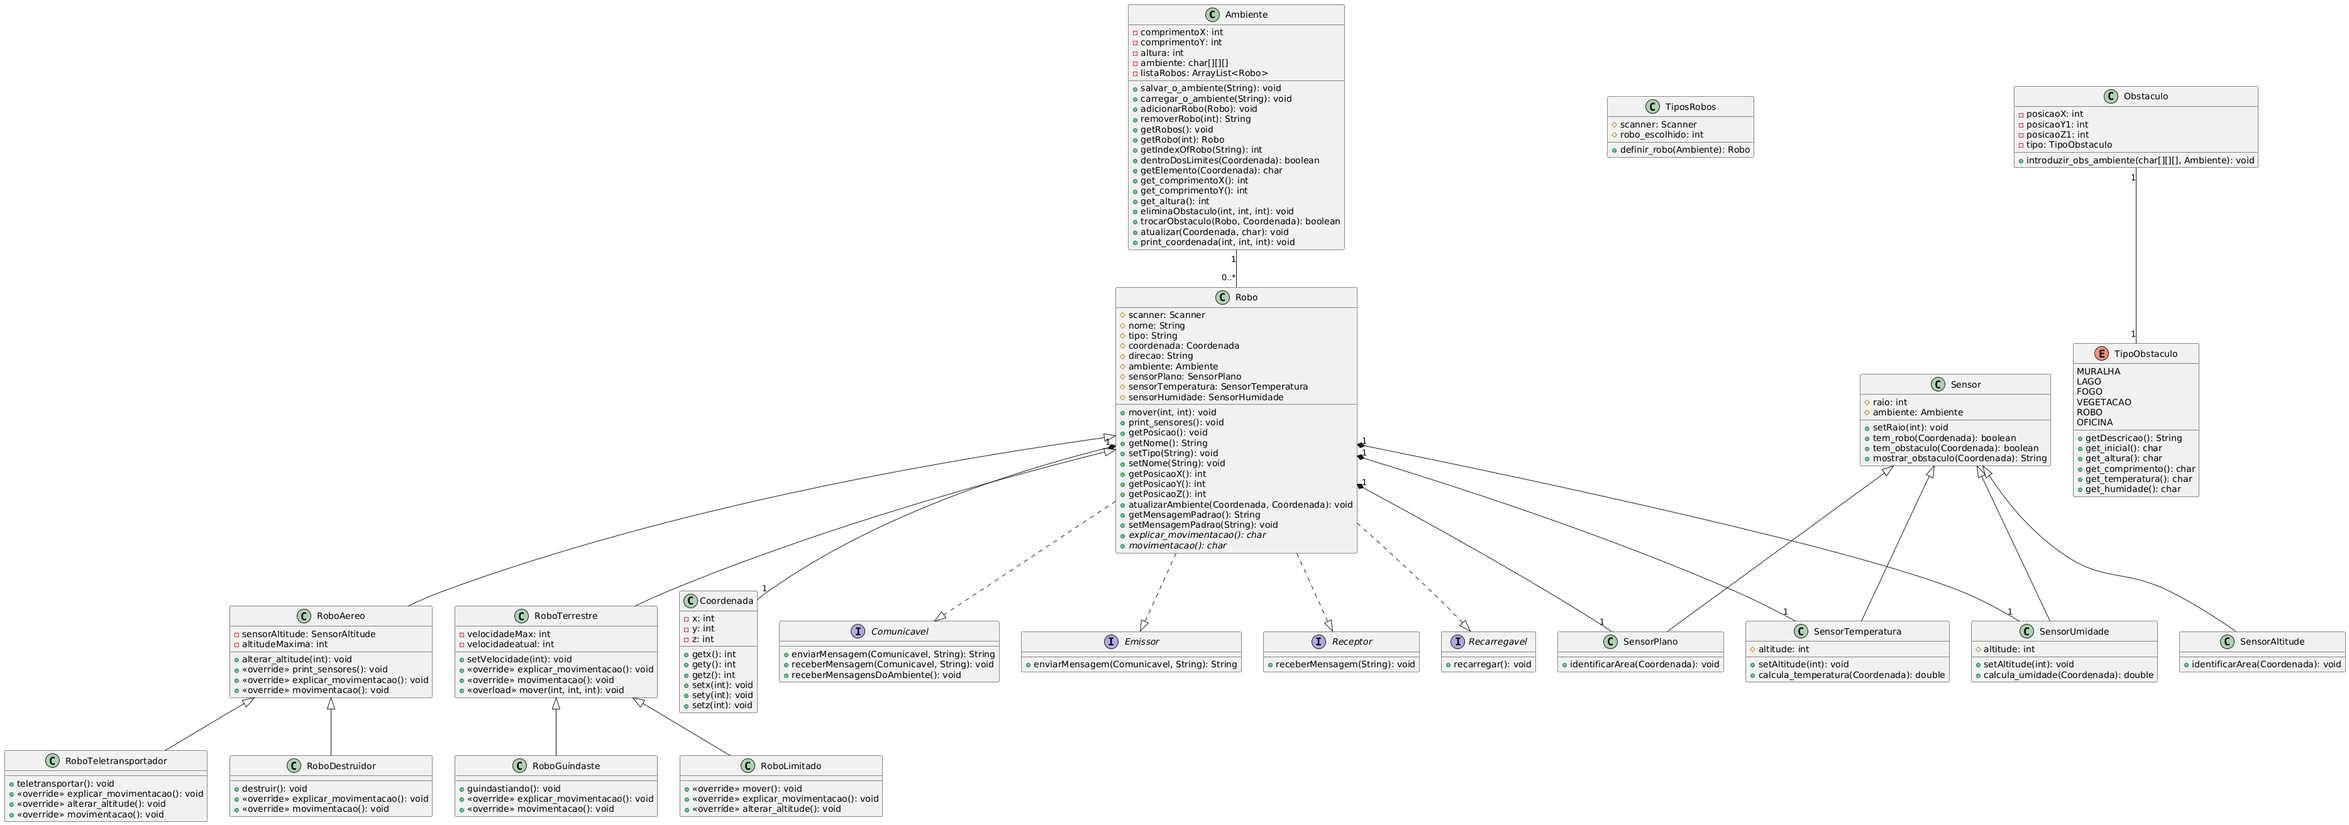
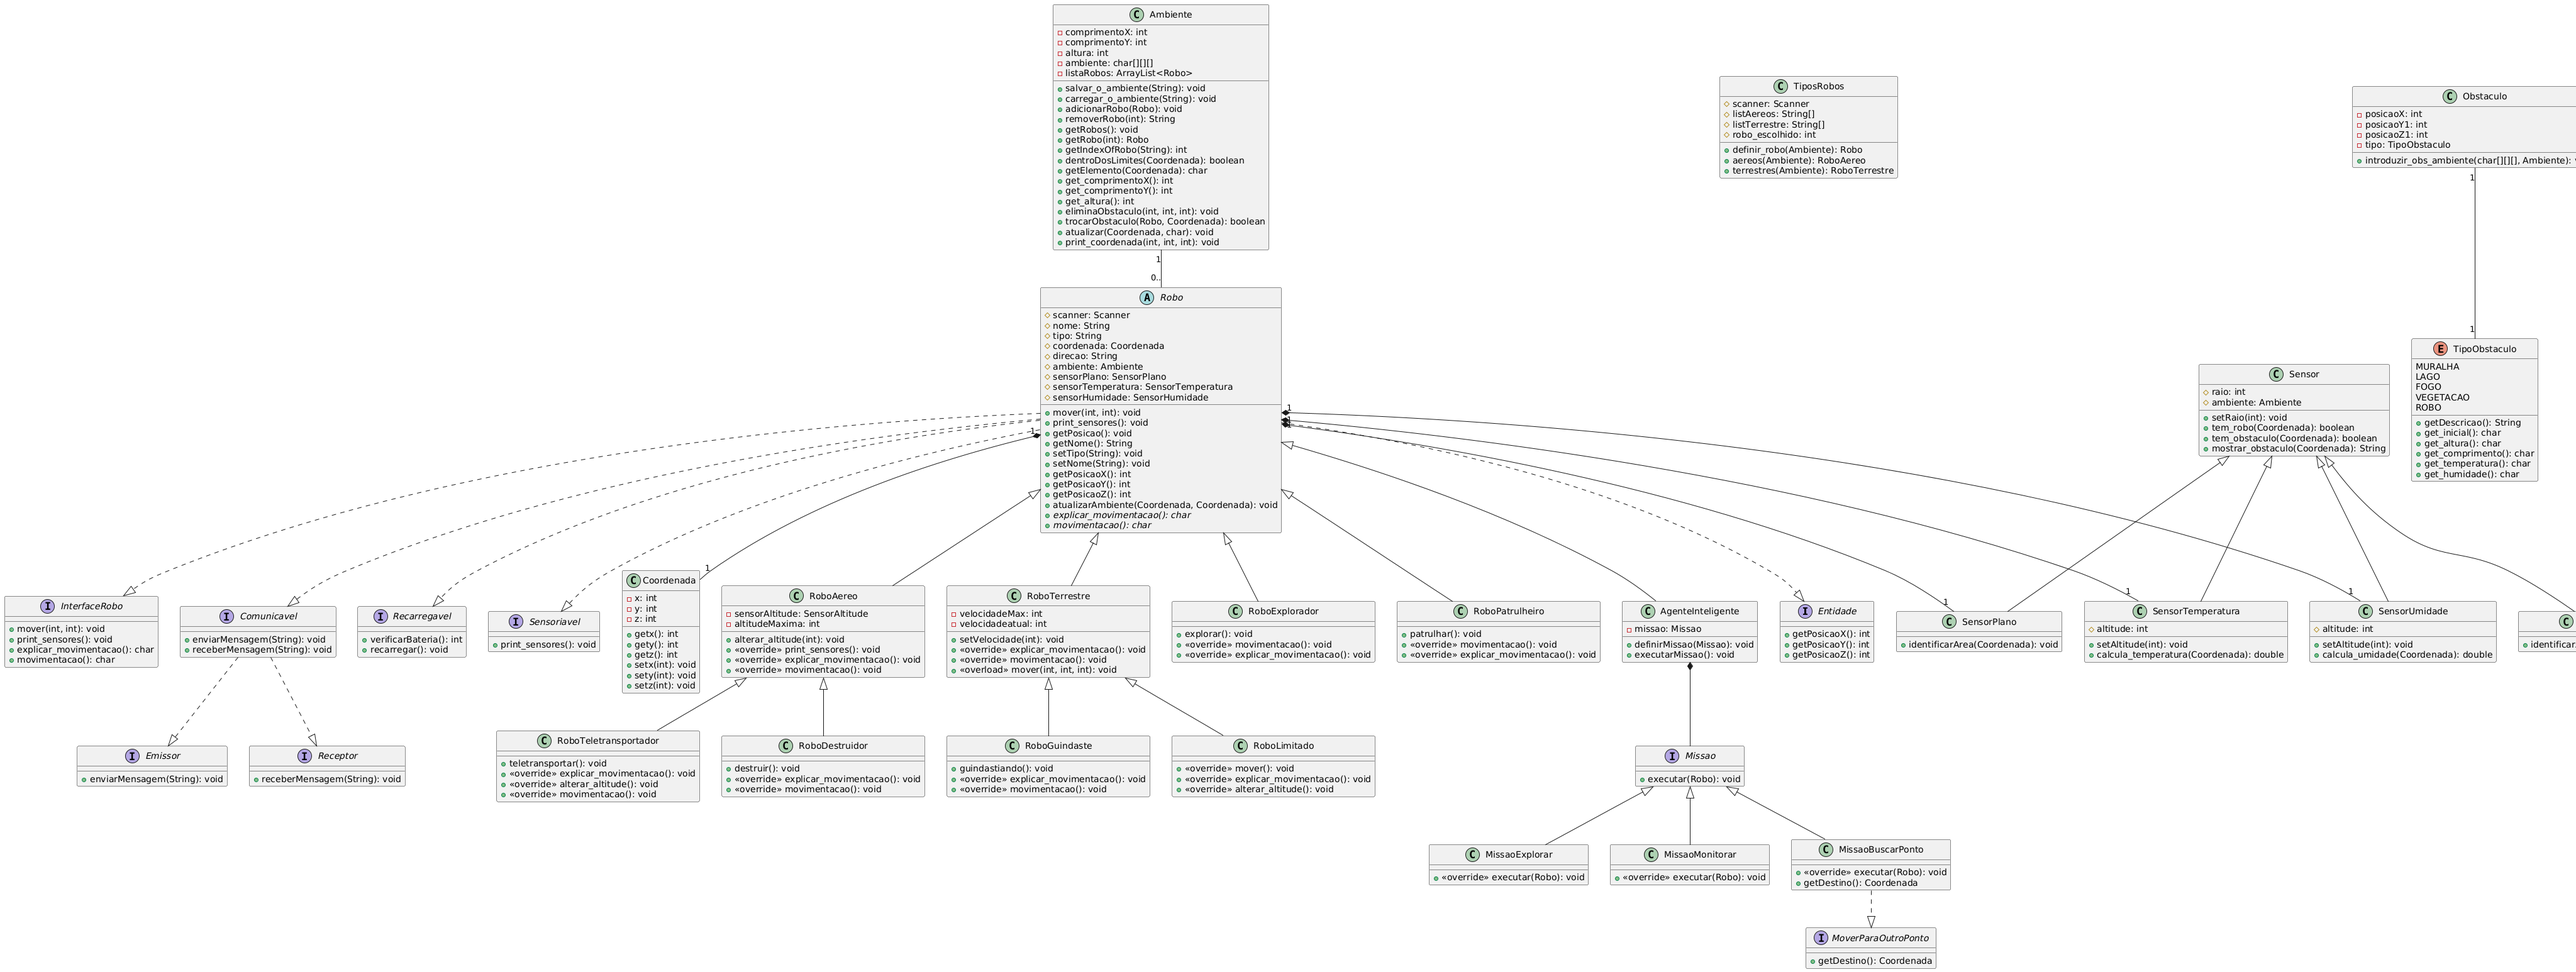
readme update + relacionamentos update

diff --git a/lab5/README.md b/lab5/README.md
@@ -44,10 +44,44 @@ Todos os robôs terrestres possuem velocidade máxima de 5km/h por padrão.
 - Alerta de nível de enrgia baixo
 
 ### Robô Patrulheiro 
+- Realiza patrulhas em áreas definidas do ambiente.
+- Se movimenta em trajetos fixos e circulares, monitorando obstáculos e atualizando informações constantemente.
+- Ideal para manter vigilância e identificar mudanças no ambiente.
+- Pode ser usado em missões de monitoramento autônomo.
 
 ### Robô Explorador 
+- Programado para explorar o ambiente de forma semi-autônoma.
+- Escolhe aleatoriamente direções para avançar, desviando de obstáculos conforme necessário.
+- Utiliza sensores para analisar o ambiente e reportar informações.
+- É útil para reconhecimento territorial e mapeamento de regiões desconhecidas.
 
 ### Agente Inteligente
+- Robô avançado com capacidade de executar missões de forma autônoma.
+- Pode receber diferentes tipos de missão (Explorar, Monitorar, Buscar Ponto) e executá-las sem intervenção manual.
+- Analisa o ambiente, toma decisões baseadas nos sensores e ajusta seu comportamento conforme a situação.
+- Representa o avanço da robótica com inteligência embarcada e comportamento orientado a objetivos.
+
+## Missões
+
+### Missão Buscar Ponto
+- Objetivo: Levar o robô até uma coordenada específica do ambiente.
+- O robô traça uma trajetória em direção ao ponto-alvo, desviando de obstáculos se necessário.
+- Pode ser usada para posicionar o robô em locais estratégicos ou para alcançar objetivos específicos.
+
+### Missão Explorar
+- Objetivo: Realizar uma exploração aleatória do ambiente durante um número determinado de passos.
+- O robô se move por diferentes regiões, evitando obstáculos e mapeando a área ao redor.
+- Ideal para descoberta de terreno, reconhecimento e levantamento de dados ambientais.
+
+### Missão Monitorar
+- Objetivo: Permanecer em uma coordenada e observar o ambiente durante um número fixo de ciclos.
+- O robô utiliza seus sensores para registrar mudanças de temperatura, umidade e movimentação.
+- Útil para vigilância passiva, estudos ambientais ou espera em pontos estratégicos.
+
+### Missão Patrulhar
+- Objetivo: Realizar uma patrulha contínua em uma área definida.
+- O robô percorre uma rota determinada ou circular, mantendo o ambiente sob vigilância constante.
+- Recomendado para missões de segurança e monitoramento de regiões de interesse.
 
 ## Tipos de obstáculos
 
@@ -111,6 +145,11 @@ Todos os robôs terrestres possuem velocidade máxima de 5km/h por padrão.
 
 ### Receptor
 - Interface para recebimento de mensagens (herdada por **Comunicavel**).
+
+### MoverParaOutroPonto
+- Define robôs capazes de se locomover até uma coordenada específica no ambiente.
+- É usada principalmente em missões como Buscar Ponto, onde o robô precisa atingir um destino definido.
+- Robôs que implementam essa interface devem considerar obstáculos, energia e limites do ambiente durante o trajeto.
 
 ## Exceções Personalizadas
 
